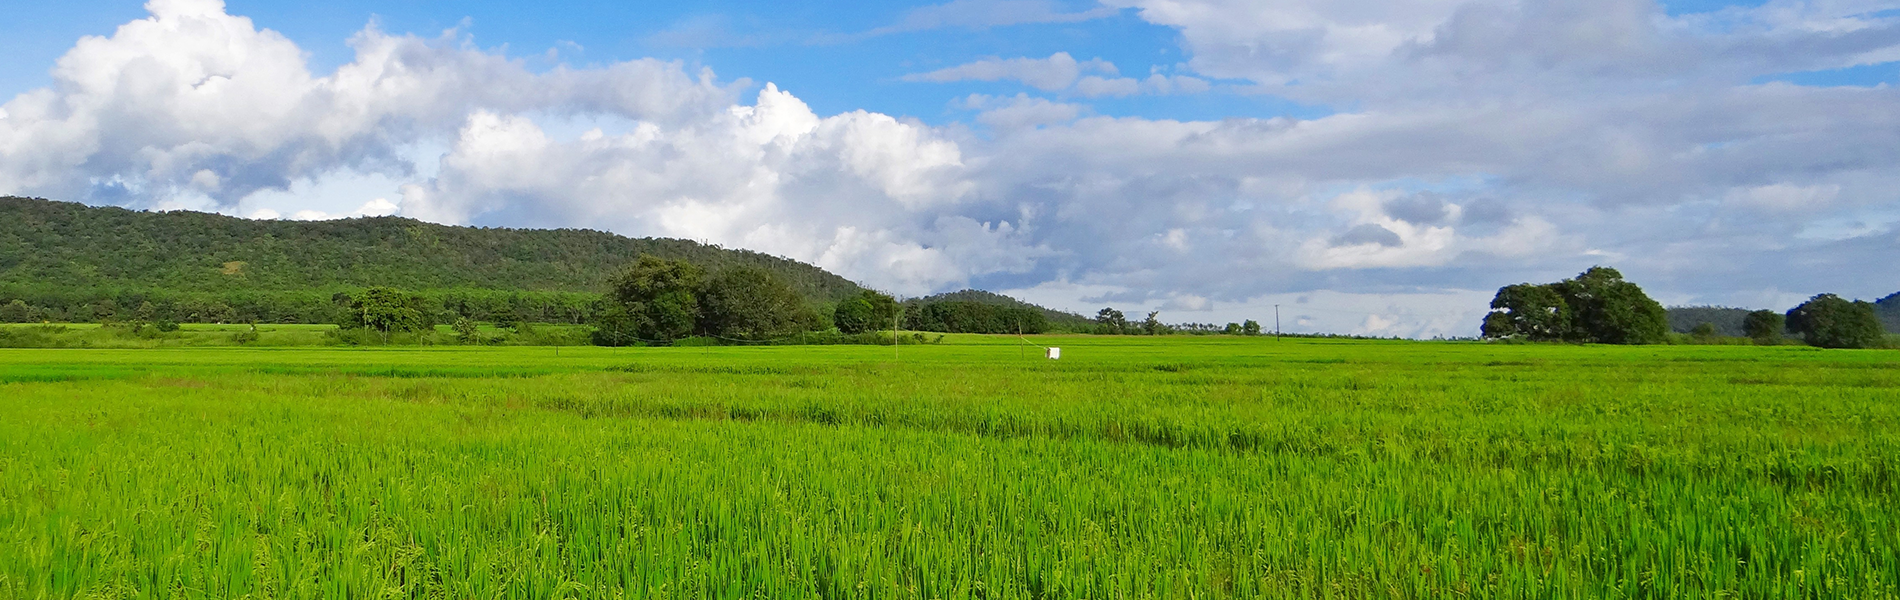
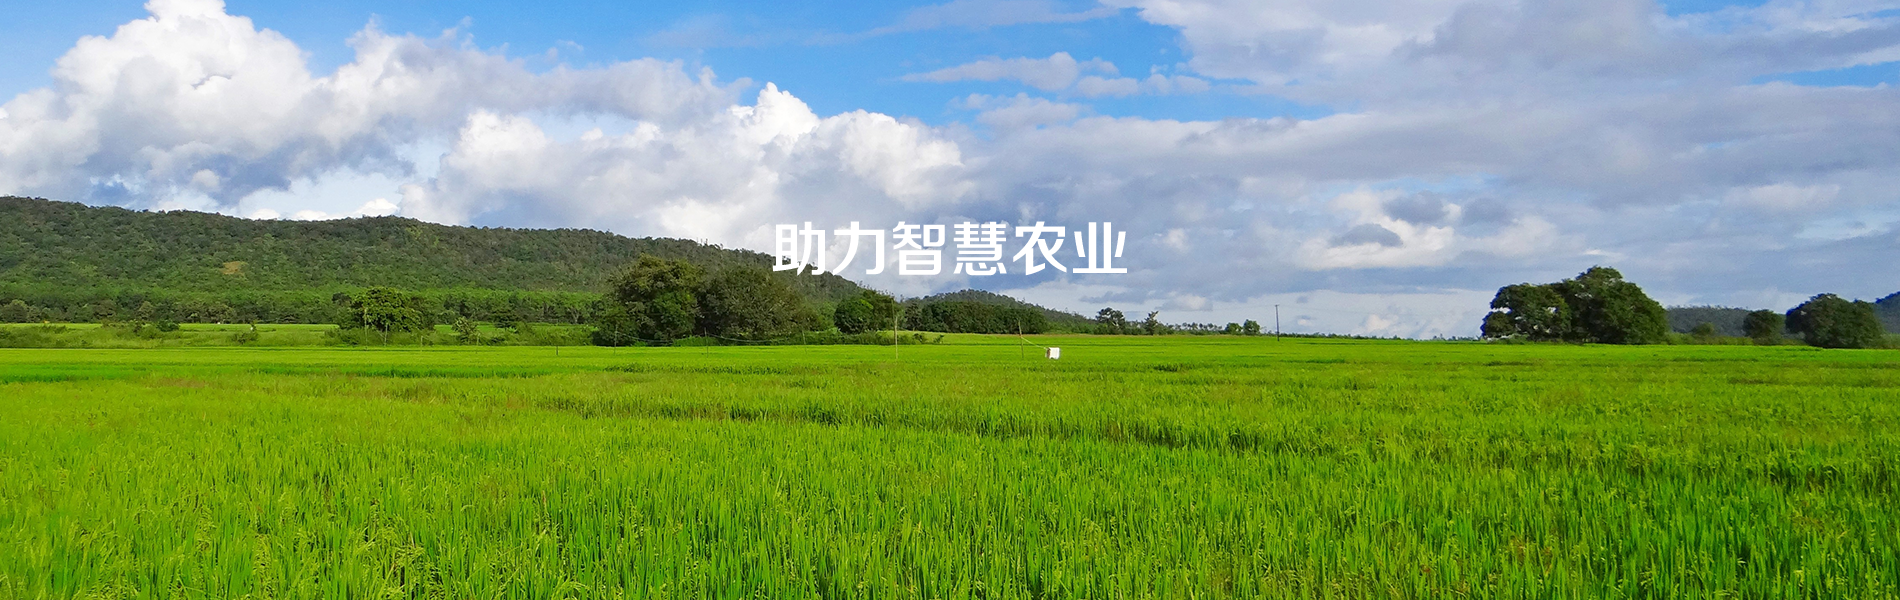
banner图替换

Changed region(s): [[0.4037, 0.36, 0.59, 0.48]]

diff --git a/src/components/Solution/Solution.vue b/src/components/Solution/Solution.vue
@@ -1,7 +1,6 @@
 <template>
     <div class="solution">
-        <img alt="解决方案配图" src="../../assets/solution.png"/>
-        <p>助力智慧农业</p>
+        <img alt="解决方案banner图" src="../../assets/solution.png"/>
     </div>
 </template>
 <script>
@@ -13,19 +12,9 @@
     .solution{
         width: 100%;
         height: 600px;
-        position: relative;
         img{
             width: 100%;
             height: 100%;
-        }
-        p{
-            position: absolute;
-            top:220px;
-            left:0;
-            right:0;
-            margin: auto;
-            font-size: 56px;
-            color:#fff;
         }
     }
 </style>

diff --git a/src/components/CompanyProfile/CompanyProfile.vue b/src/components/CompanyProfile/CompanyProfile.vue
@@ -1,6 +1,9 @@
 <template>
     <div class="companyProfile">
-        这是公司介绍页
+         <img alt="公司介绍banner图" src="../../assets/companyProfile.png"/>
+         <section>
+
+         </section>
     </div>
 </template>
 
@@ -12,7 +15,12 @@ export default {
 
 <style lang="less" scoped>
     .companyProfile{
-        // padding-top:68px; 
+        width: 100%;
+        height: 600px;
+        img{
+            width: 100%;
+            height: 100%;
+        }
     }
 </style>
 
